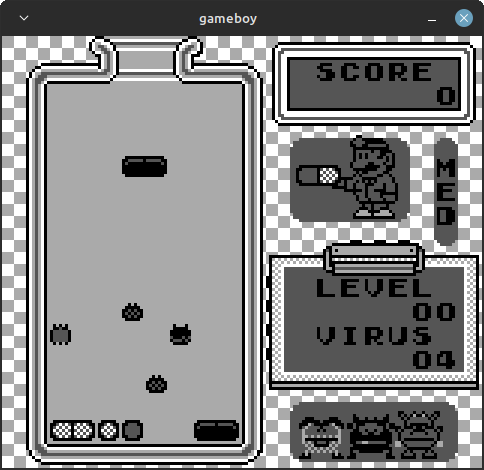
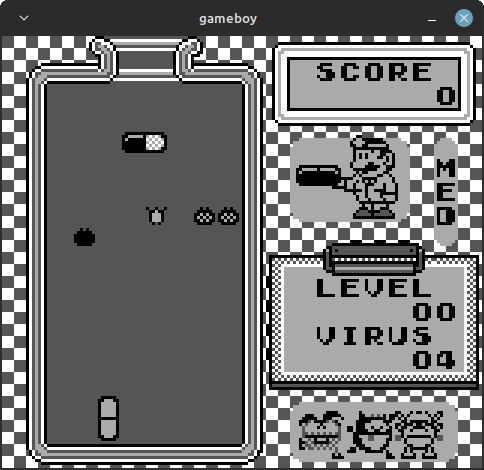
fixed colors

diff --git a/src/video/ppu.c b/src/video/ppu.c
@@ -127,8 +127,8 @@ static LCDColor get_tile_color(uint8_t tile_row_0, uint8_t tile_row_1, uint8_t t
 
     // Color depends on palette
     uint8_t color_bit_0, color_bit_1, color;
-    color_bit_0 = ( palette >> (color_index*2) ) & 0x1;
-    color_bit_1 = ( palette >> (color_index*2+1) ) & 0x1;
+    color_bit_0 = ( palette >> (color_index*2+1) ) & 0x1;
+    color_bit_1 = ( palette >> (color_index*2) ) & 0x1;
     color = color_bit_0 | (color_bit_1 << 0x1);
 
     return (LCDColor){color_index, color};
@@ -280,7 +280,7 @@ void draw_sprites()
         {
             if(!obj_filled_pixels[x])
             {
-                uint8_t tile_x = x_flip ? obj_width - (x - object.pos_x) :  x - object.pos_x; // X coordinate within tile row
+                uint8_t tile_x = x_flip ? (obj_width - 1) - (x - object.pos_x) :  x - object.pos_x; // X coordinate within tile row
                 uint8_t palette = pallet_number ? *obp1 : *obp0; // Sellect pallete based on flag
                 LCDColor lcdcolor = get_tile_color(tile_row_0, tile_row_1, tile_x, palette);
 
